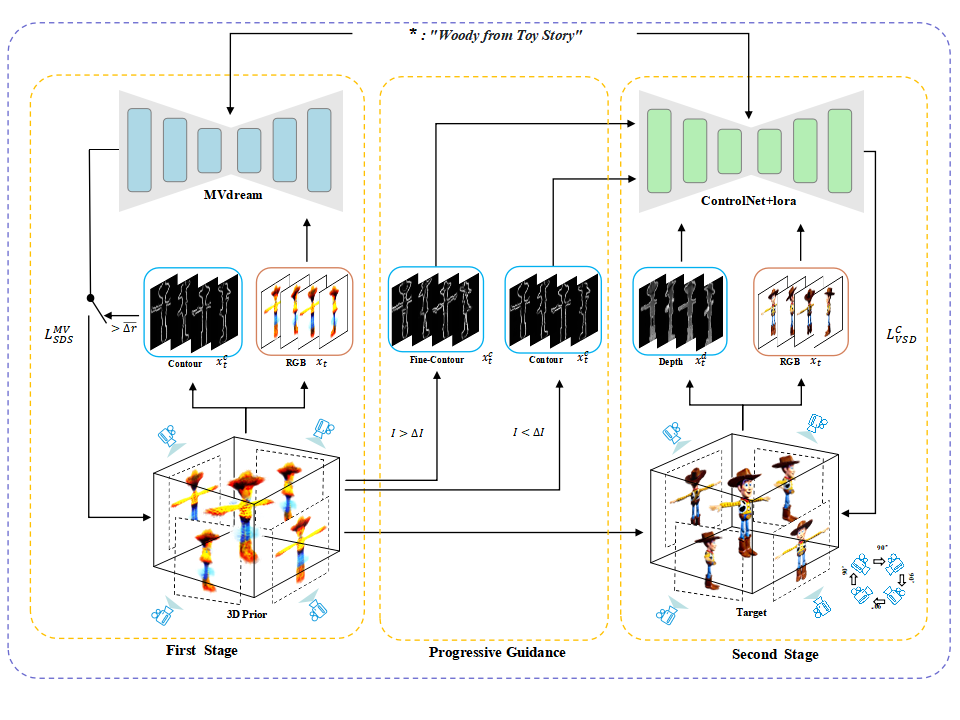
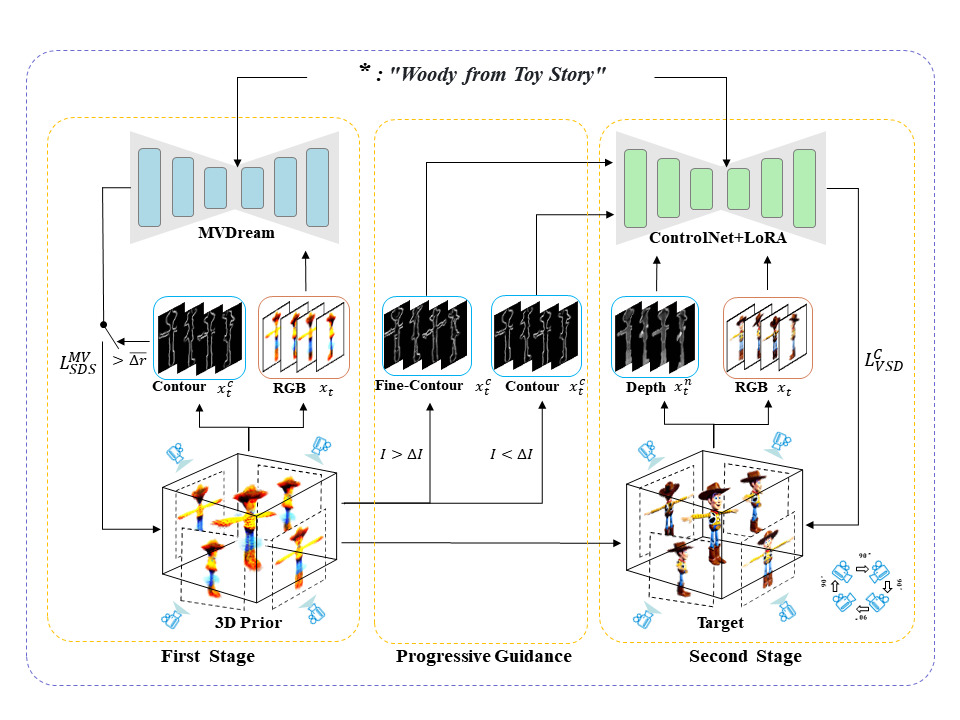
feat: update core logic and documentation

diff --git a/README.md b/README.md
@@ -3,7 +3,7 @@
 <p align="center">
 <img src="./assets/pipeline.png" width="1080px"/> 
 <br>
-<em>Pipeline of ProDreamDream.</em>
+<em>Pipeline of ProDream.</em>
 </p>
 
 ## Installation
